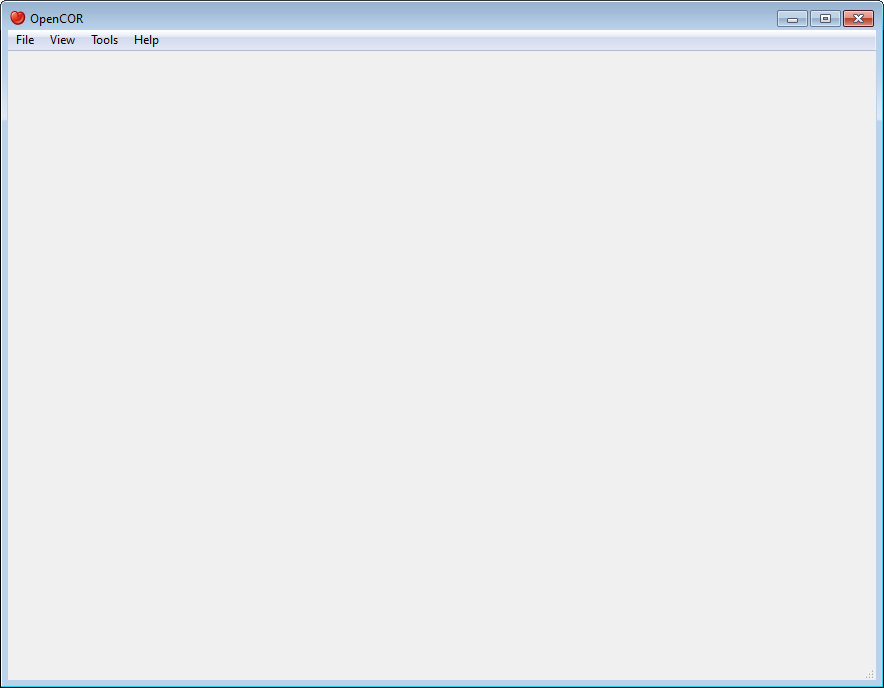
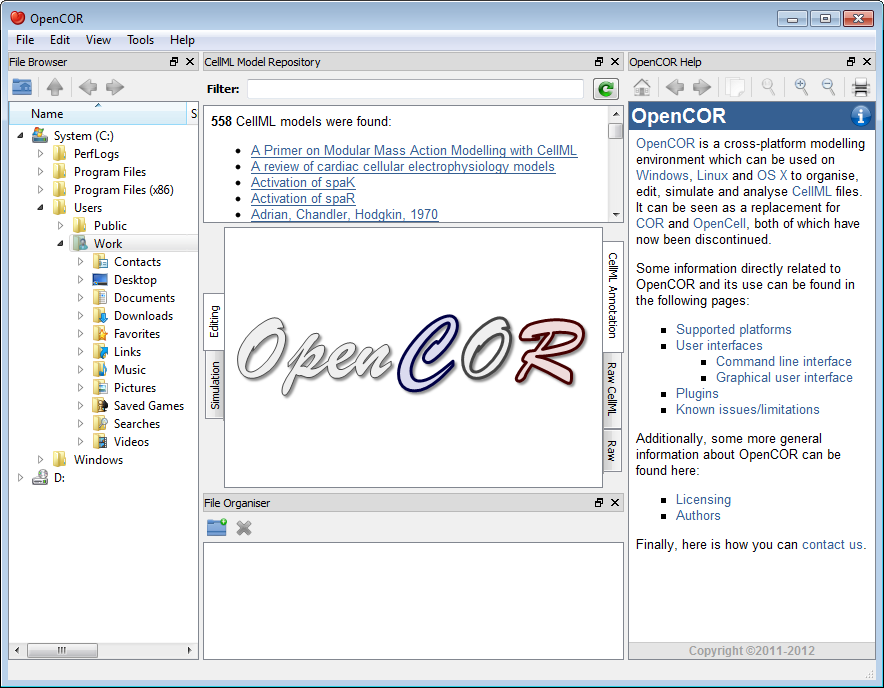
Some work on the user documentation.

diff --git a/doc/user/plugins/Help.html b/doc/user/plugins/Help.html
@@ -19,8 +19,109 @@
         </script>
 
         <p>
-            To be done...
+            The Help plugin provides some user documentation which by default looks as follows:
         </p>
+
+        <p>
+            <a class="image" href="../../res/image.html?image=../user/plugins/res/pics/HelpScreenshot01.png&caption=Help plugin: list of all the CellML files"><img class="centerLink" src="res/pics/HelpScreenshot01Small.png" width=360 height=280 alt="Help plugin: home"></a>
+        </p>
+
+        <p>
+            As any <a href="userInterfaces/graphicalUserInterface.html">dockable window</a>, it can be hidden either directly or through the menu. However, not the <code>View</code> menu but the <code>Help</code> menu:
+        </p>
+
+        <p>
+            <a class="image" href="../../res/image.html?image=../user/plugins/res/pics/HelpScreenshot02.png&caption=Help plugin: list of all the CellML files"><img class="centerLink" src="res/pics/HelpScreenshot02Small.png" width=360 height=280 alt="Help plugin: home"></a>
+        </p>
+
+        <p>
+            The contents of the documentation provided by the plugin is the same as the one found in the <a href="http://www.opencor.ws/user/index.html">user documentation</a> side of the <a href="http://www.opencor.ws/">OpenCOR website</a>. This includes a menu which gets shown when hovering over the information icon (in the top right):
+        </p>
+
+        <p>
+            <a class="image" href="../../res/image.html?image=../user/plugins/res/pics/HelpScreenshot03.png&caption=Help plugin: list of all the CellML files"><img class="centerLink" src="res/pics/HelpScreenshot03Small.png" width=360 height=280 alt="Help plugin: home"></a>
+        </p>
+
+        <p>
+            In addition to what is shown on the website, the Help plugin also shows special links which when clicked send a command to OpenCOR, asking it to perform a particular task. For example, open the current page both in OpenCOR and on the <a href="http://www.opencor.ws/user/plugins/Help.html">OpenCOR website</a>. Now, if you check the bold text below, you will see that its contents is slightly different, depending on whether you are reading this in OpenCOR or from the OpenCOR website:
+        </p>
+
+        <p class="center">
+            <strong>To open the About box, <span class="opencor">you can either </span>select the <code>Help</code> | <code>About...</code> menu<span class="opencor"> or click <a href="gui://actionAbout">here</a></span>...</strong>
+        </p>
+
+        <p>
+            The Help window also comes with a toolbar which offers the following features:
+        </p>
+
+        <table class="toolbarButtons">
+            <tbody>
+                <tr>
+                    <th>
+                        <img src="res/pics/oxygen/actions/go-home.png" width=24 height=24 alt="Home">
+                    </th>
+                    <td>
+                        Go to the home page
+                    </td>
+                </tr>
+                <tr>
+                    <th>
+                        <img src="res/pics/oxygen/actions/go-previous.png" width=24 height=24 alt="Home">
+                    </th>
+                    <td>
+                        Go back
+                    </td>
+                </tr>
+                <tr>
+                    <th>
+                        <img src="res/pics/oxygen/actions/go-next.png" width=24 height=24 alt="Home">
+                    </th>
+                    <td>
+                        Go forward
+                    </td>
+                </tr>
+                <tr>
+                    <th>
+                        <img src="res/pics/oxygen/actions/edit-copy.png" width=24 height=24 alt="Home">
+                    </th>
+                    <td>
+                        Copy the selection to the clipboard
+                    </td>
+                </tr>
+                <tr>
+                    <th>
+                        <img src="res/pics/oxygen/actions/zoom-original.png" width=24 height=24 alt="Home">
+                    </th>
+                    <td>
+                        Reset the size of the help page contents
+                    </td>
+                </tr>
+                <tr>
+                    <th>
+                        <img src="res/pics/oxygen/actions/zoom-in.png" width=24 height=24 alt="Home">
+                    </th>
+                    <td>
+                        Zoom in the help page contents
+                    </td>
+                </tr>
+                <tr>
+                    <th>
+                        <img src="res/pics/oxygen/actions/zoom-out.png" width=24 height=24 alt="Home">
+                    </th>
+                    <td>
+                        Zoom out the help page contents
+                    </td>
+                </tr>
+                <tr>
+                    <th>
+                        <img src="res/pics/oxygen/actions/document-print.png" width=24 height=24 alt="Home">
+                    </th>
+                    <td>
+                        Print the help page contents
+                    </td>
+                </tr>
+            </tbody>
+        </table>
 
         <script type="text/javascript">
             copyright();

diff --git a/doc/user/userInterfaces/graphicalUserInterface.html b/doc/user/userInterfaces/graphicalUserInterface.html
@@ -19,19 +19,44 @@
         </script>
 
         <p>
-            OpenCOR offers a consistent graphical user interface across its <a href="../supportedPlatforms.html">supported platforms</a>. The look and feel of the interface is determined by the <a href="../plugins.html">plugins</a> you have selected. The first time you run OpenCOR, it will look something like this:
+            OpenCOR offers a consistent graphical user interface across the <a href="../supportedPlatforms.html">different platforms</a> it supports. The look and feel of the interface is determined by the <a href="../plugins.html">plugins</a> you have selected. The first time you run OpenCOR, it will look something like this:
         </p>
 
         <p>
-            <a class="image" href="../../res/image.html?image=../user/userInterfaces/res/pics/screenshot01.png&caption=Default looking OpenCOR"><img class="center shadow" src="res/pics/screenshot01Small.png" width=360 height=280 alt="Default looking OpenCOR"></a>
+            <a class="image" href="../../res/image.html?image=../user/userInterfaces/res/pics/screenshot01.png&caption=Default looking OpenCOR"><img class="centerLink" src="res/pics/screenshot01Small.png" width=360 height=280 alt="Default looking OpenCOR"></a>
         </p>
 
         <p>
+            There is a central area which is used to interact with files. By default, no file is opened, hence the OpenCOR logo is shown instead. To the sides, there are dockable windows which each provide additional features. Those windows can be dragged and dropped to the top or bottom of the central area:
+        </p>
+
+        <p>
+            <a class="image" href="../../res/image.html?image=../user/userInterfaces/res/pics/screenshot02.png&caption=Default looking OpenCOR"><img class="centerLink" src="res/pics/screenshot02Small.png" width=360 height=280 alt="Use of all docking areas"></a>
+        </p>
+
+        <p>
+            Alternatively, they can be undocked:
+        </p>
+
+        <p>
+            <img class="center" src="res/pics/screenshot03.png" width=207 height=237 alt="Default looking OpenCOR">
+        </p>
+
+        <p>
+            Or even closed, either by directly closing the window itself or by unticking the corresponding menu item (under the <code>View</code> menu):
+        </p>
+
+        <p>
+            <a class="image" href="../../res/image.html?image=../user/userInterfaces/res/pics/screenshot04.png&caption=Empty looking OpenCOR"><img class="centerLink" src="res/pics/screenshot04Small.png" width=360 height=280 alt="Empty looking OpenCOR"></a>
+        </p>
+
+        <p>
+            There is a central area which is used to interact with files. In the above screenshot, no file is opened by default, so the OpenCOR logo is shown instead. To the sides, there are docked windows which each provide additional features. They could equally be docked to the top or bottom of the central area:
             This is because some plugins have been selected for you by default. Therefore, to unselect all the plugins will result in OpenCOR looking 'empty':
         </p>
 
         <p>
-            <a class="image" href="../../res/image.html?image=../user/userInterfaces/res/pics/screenshot02.png&caption=Empty looking OpenCOR"><img class="center shadow" src="res/pics/screenshot02Small.png" width=360 height=280 alt="Empty looking OpenCOR"></a>
+            <a class="image" href="../../res/image.html?image=../user/userInterfaces/res/pics/screenshot05.png&caption=Empty looking OpenCOR"><img class="centerLink" src="res/pics/screenshot05Small.png" width=360 height=280 alt="Empty looking OpenCOR"></a>
         </p>
 
         <p>

diff --git a/doc/user/plugins.html b/doc/user/plugins.html
@@ -23,8 +23,25 @@
         </p>
 
         <p>
-            As can be seen by opening the Plugins dialog box (by selecting the <code>Tools</code> | <code>Plugins...</code> menu<span class="opencor"> or by clicking <a href="gui://actionPlugins">here</a></span>) and by unselecting <code>Show only selectable plugins</code> (if necessary), OpenCOR supports different types of plugins.
+            As can be seen by opening the Plugins dialog box (<span class="opencor">either </span>by selecting the <code>Tools</code> | <code>Plugins...</code> menu<span class="opencor"> or by clicking <a href="gui://actionPlugins">here</a></span>) and by unselecting <code>Show only selectable plugins</code> (if necessary), OpenCOR supports different types of plugins (Organisation, Editing, Simulation, Miscellaneous, API and Third-party; see below):
+        </ul>
+
+        <p>
+            <img class="center" src="res/pics/pluginsScreenshot01.png" width=651 height=338 alt="Help plugin: home">
         </p>
+
+        <p>
+            You can select which plugins you want to use. However, there are plugins which are needed by other plugins (e.g. the Core and QJson plugins are needed by the <a href="plugins/CellMLModelRepository.html">CellMLModelRepository</a> plugin) and therefore cannot be directly selected. Instead, they will be automatically selected if and only if they are needed by another plugin.
+        </p>
+        
+        <p>
+            Most of the selectable plugins come with some kind of a <a href="userInterfaces/graphicalUserInterface.html">graphical user interface</a> (GUI):
+        </p>
+
+        <ul>
+            <li><strong>Dockable window:</strong> such a plugin (e.g. the <a href="plugins/CellMLModelRepository.html">CellMLModelRepository</a> and <a href="plugins/Help.html">Help</a> plugins) can be docked around the central area, undocked or even hidden, as illustrated <a href="userInterfaces/graphicalUserInterface.html">here</a>.</li>
+            <li><strong>View window:</strong> such a plugin (e.g. the <a href="plugins/CellMLAnnotationView.html">CellMLAnnotationView</a> and <a href="plugins/SingleCellSimulationView.html">SingleCellSimulationView</a> plugins) is used to interact with a file, be it to edit it, simulate it or analyse it.</li>
+        </ul>
 
         <div class="section">
             Organisation

diff --git a/doc/user/plugins/CellMLModelRepository.html b/doc/user/plugins/CellMLModelRepository.html
@@ -23,7 +23,7 @@
         </p>
 
         <p>
-            <a class="image" href="../../res/image.html?image=../user/plugins/res/pics/CellMLModelRepositoryScreenshot01.png&caption=CellMLModelRepository plugin: list of all the CellML files"><img class="center shadow" src="res/pics/CellMLModelRepositoryScreenshot01Small.png" width=360 height=280 alt="CellMLModelRepository plugin: list of all the CellML files"></a>
+            <a class="image" href="../../res/image.html?image=../user/plugins/res/pics/CellMLModelRepositoryScreenshot01.png&caption=CellMLModelRepository plugin: list of all the CellML files"><img class="centerLink" src="res/pics/CellMLModelRepositoryScreenshot01Small.png" width=360 height=280 alt="CellMLModelRepository plugin: list of all the CellML files"></a>
         </p>
 
         <p>
@@ -31,7 +31,7 @@
         </p>
 
         <p>
-            <a class="image" href="../../res/image.html?image=../user/plugins/res/pics/CellMLModelRepositoryScreenshot02.png&caption=CellMLModelRepository plugin: filtered list of CellML files"><img class="center shadow" src="res/pics/CellMLModelRepositoryScreenshot02Small.png" width=360 height=280 alt="CellMLModelRepository plugin: filtered list of CellML files"></a>
+            <a class="image" href="../../res/image.html?image=../user/plugins/res/pics/CellMLModelRepositoryScreenshot02.png&caption=CellMLModelRepository plugin: filtered list of CellML files"><img class="centerLink" src="res/pics/CellMLModelRepositoryScreenshot02Small.png" width=360 height=280 alt="CellMLModelRepository plugin: filtered list of CellML files"></a>
         </p>
 
         <p>

diff --git a/doc/res/common.css b/doc/res/common.css
@@ -54,6 +54,22 @@ img.center {
     display: block;
     margin-left: auto;
     margin-right: auto;
+    padding: 7px;
+}
+
+img.centerLink {
+    display: block;
+    margin-left: auto;
+    margin-right: auto;
+    padding: 7px;
+}
+
+img.centerLink:hover {
+    margin-top: -1px;
+    margin-bottom: -1px;
+    background: rgba(103, 103, 103, 0.05);
+    border: 1px solid rgba(103, 103, 103, 0.13);
+    border-radius: 7px;
 }
 
 li {

diff --git a/doc/user/res/stylesheet.css b/doc/user/res/stylesheet.css
@@ -33,8 +33,8 @@ div.section {
     color: rgb(54, 96, 146);
 }
 
-img.shadow {
-    box-shadow: 0px 0px 10px rgb(103, 103, 103);
+p.center {
+    text-align: center;
 }
 
 pre {
@@ -44,4 +44,13 @@ pre {
 
 code {
     color: rgb(54, 96, 146);
+}
+
+img.centerLink:hover {
+    background: rgba(54, 96, 146, 0.05);
+    border: 1px solid rgba(54, 96, 146, 0.13);
+}
+
+table.toolbarButtons th {
+    padding: 0px 13px 0px 13px;
 }

diff --git a/src/plugins/misc/Help/i18n/Help_fr.ts b/src/plugins/misc/Help/i18n/Help_fr.ts
@@ -68,8 +68,8 @@
         <translation>Im&amp;primer</translation>
     </message>
     <message>
-        <source>Print this help page</source>
-        <translation>Imprimer cette page d&apos;aide</translation>
+        <source>Print the help page contents</source>
+        <translation>Imprimer le contenu de la page d&apos;aide</translation>
     </message>
 </context>
 <context>

diff --git a/src/mainwindow.cpp b/src/mainwindow.cpp
@@ -988,6 +988,10 @@ void MainWindow::handleAction(const QUrl &pUrl)
         // We want to open the Plugins dialog box
 
         on_actionPlugins_triggered();
+    } else if (!authority.compare("actionabout")) {
+        // We want to open the About box
+
+        on_actionAbout_triggered();
     } else {
         // We are dealing with an action which OpenCOR itself can't handle, but
         // maybe one of its loaded plugins can
